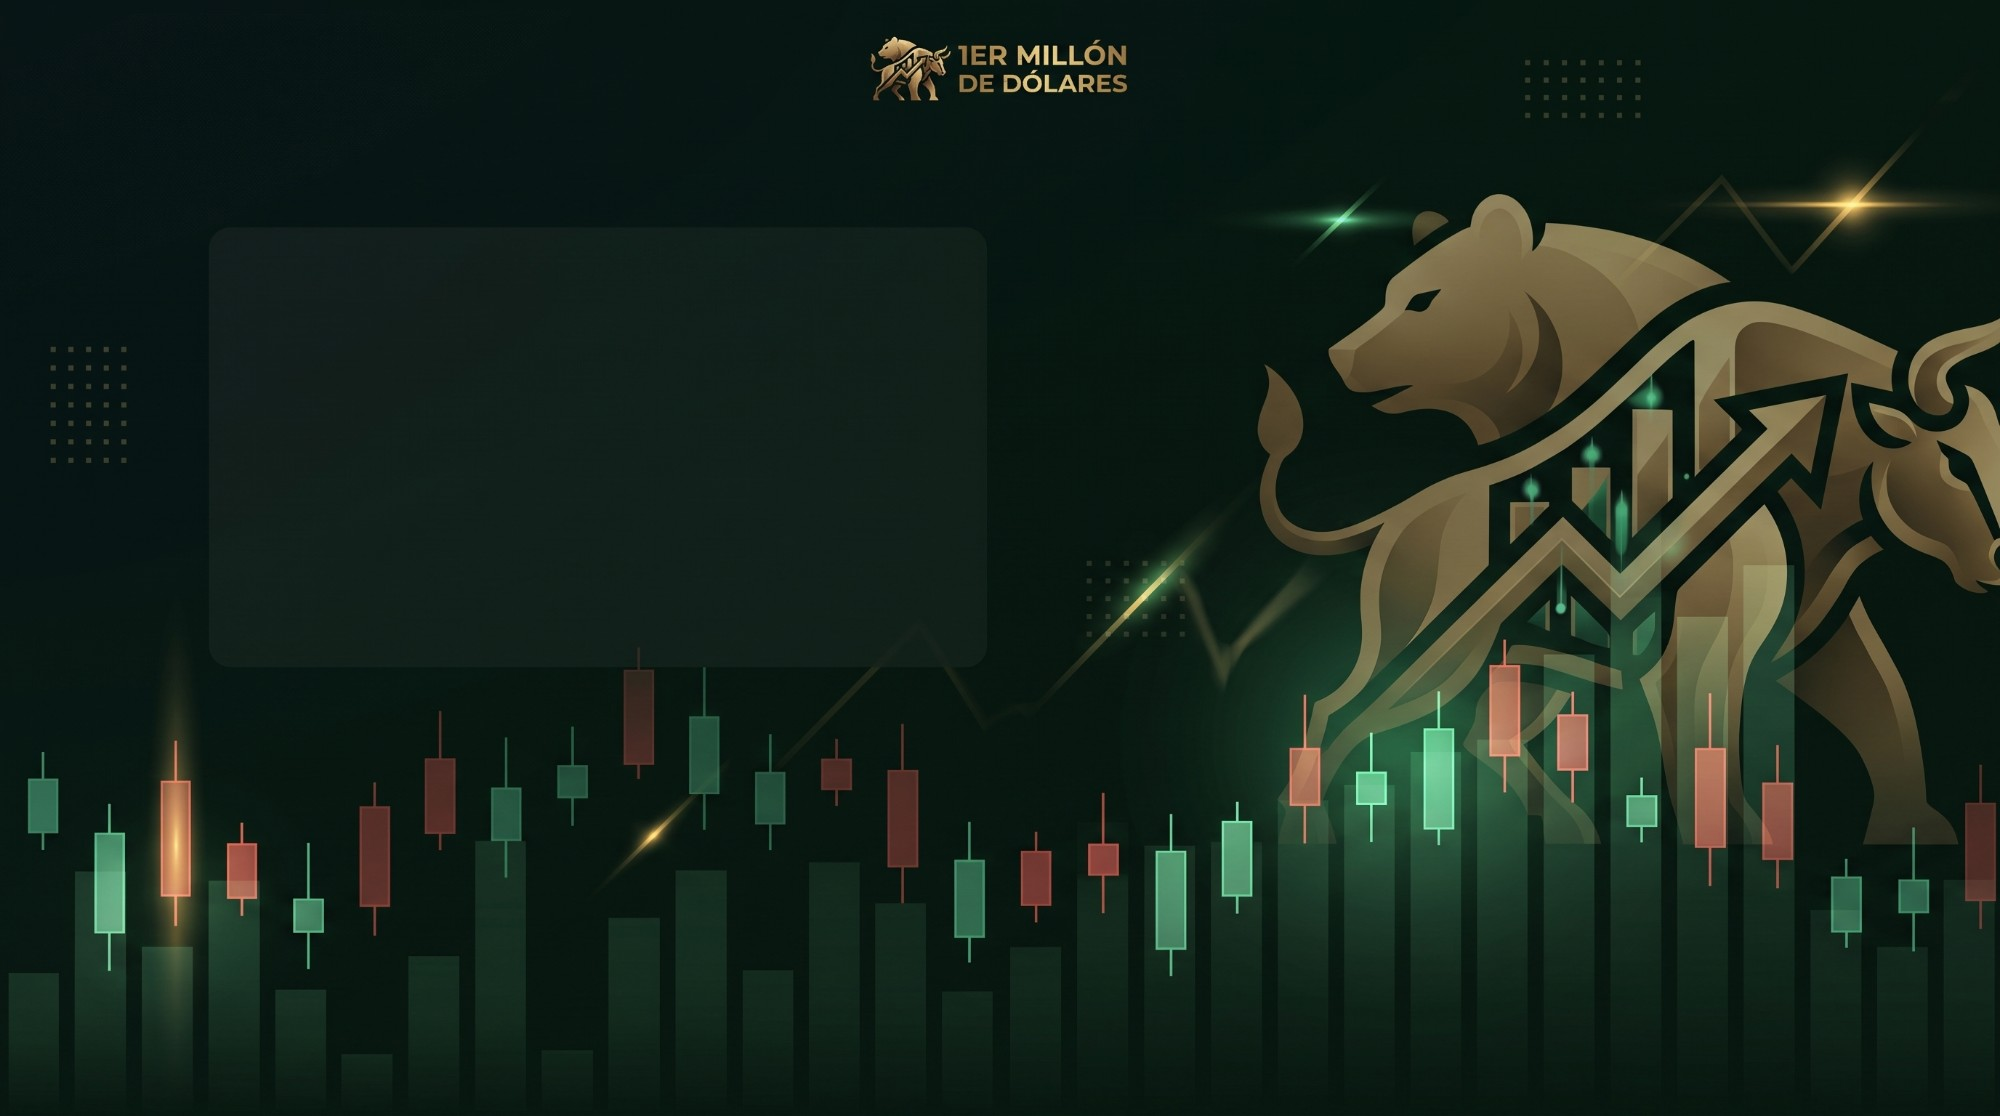
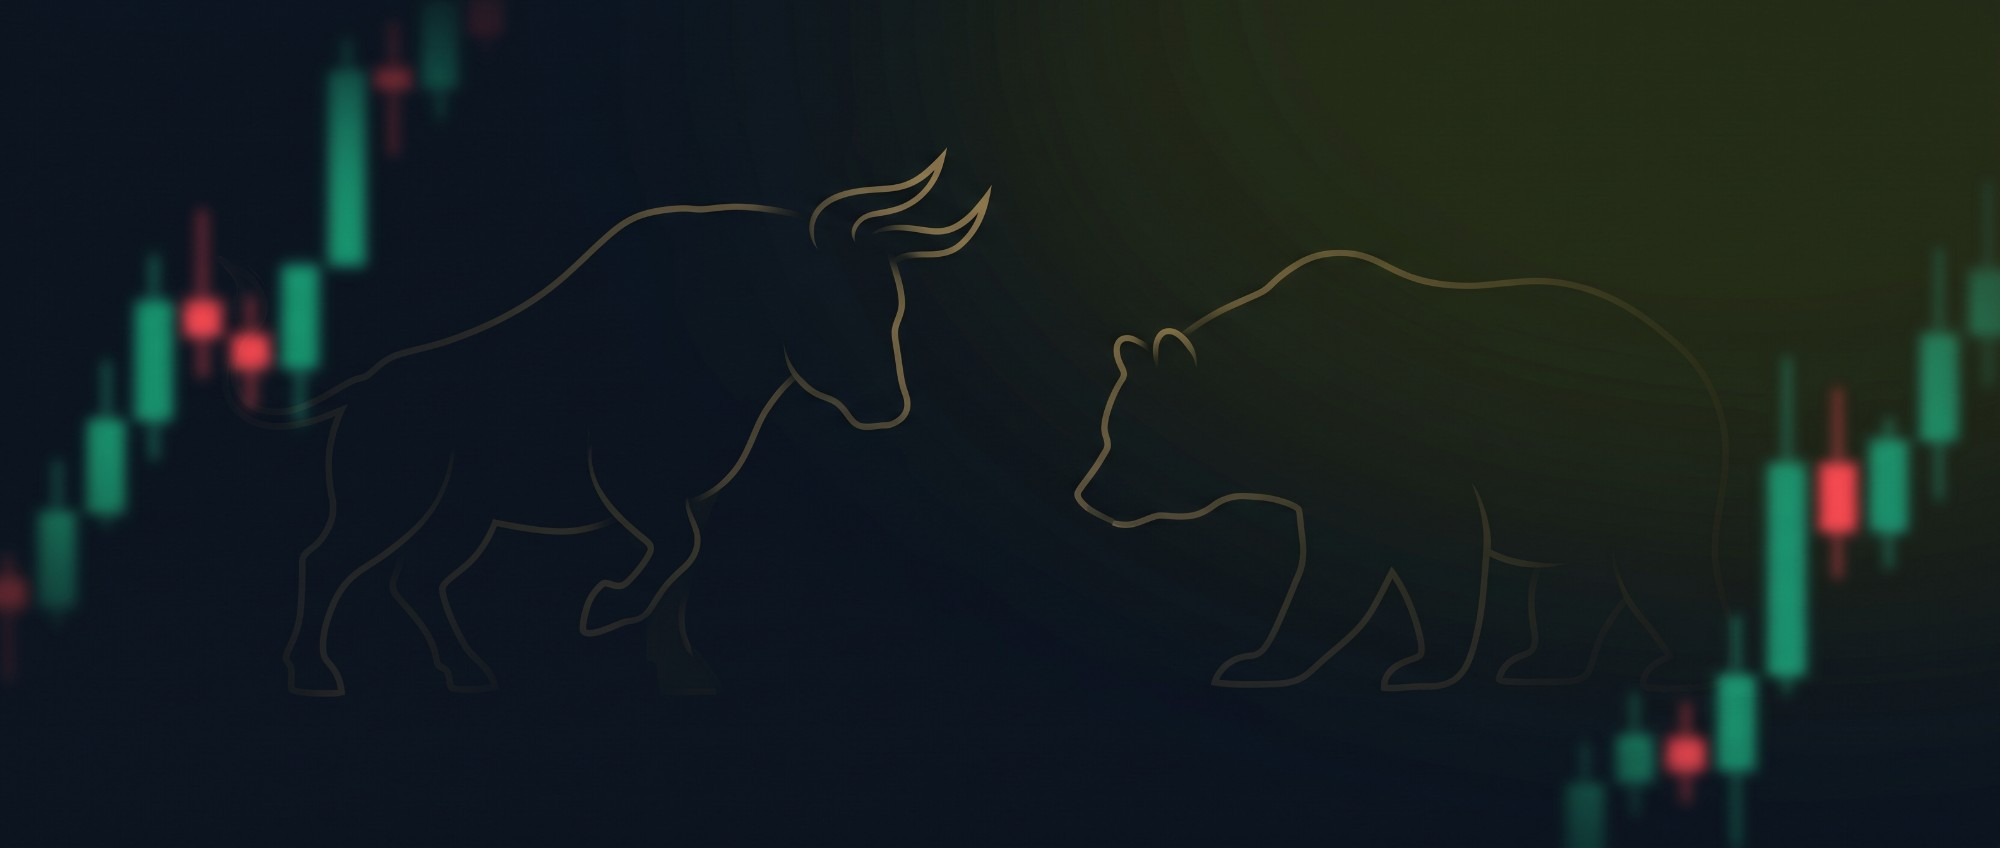
Quitar la costura dura entre secciones + ilustracion nueva de testimonios
Alejo bajando por la pagina: "no hay sinergia entre las imagenes, se ve
como si fueran dos imagenes divididas, me parece horrible". Tenia razon,
y el problema no era de las ilustraciones sino de como estaban montadas:
cada fondo era un rectangulo a sangre pegado al siguiente, asi que donde
terminaba una imagen y empezaba la otra quedaba una linea horizontal
dura. Eso siempre se va a leer como un collage.

Arreglo (.fundido-vertical en globals.css): cada fondo ilustrado se
desvanece hacia el MISMO color (#0b0e14) en sus bordes de arriba y
abajo. Los dos lados de cada costura llegan al mismo tono, asi que el
corte deja de existir y las secciones se encadenan a traves de la
oscuridad en vez de chocar. Aplicado a las tres secciones ilustradas:
hero, seccion del grafico y testimonios.

El color va literal y no var(--bg) a proposito: estas secciones son
oscuras en ambos temas, porque las ilustraciones lo son.

Ademas, ilustracion nueva para testimonios, generada ya con las
especificaciones que se le pasaron a Gemini: sin logo, sin texto,
2000x848, el toro y el oso como siluetas doradas tenues a los lados y
el centro oscuro y limpio para las tarjetas. La anterior era dorada y
recargada y no conversaba con las otras dos.

Como esta nace oscura, el velo encima bajo de 25% a 15% - la anterior
necesitaba el triple. Y el titulo se queda centrado, que ahora cae
justo en el hueco oscuro entre los dos animales.

diff --git a/src/components/TestimonialsMarquee.tsx b/src/components/TestimonialsMarquee.tsx
@@ -28,20 +28,20 @@ import type { Testimonial } from "@/lib/testimonials";
  */
 function TradingBackdrop() {
   return (
-    <div aria-hidden className="pointer-events-none absolute inset-0">
-      <div className="absolute inset-0 bg-[#0b1410]" />
+    <div aria-hidden className="fundido-vertical pointer-events-none absolute inset-0">
+      <div className="absolute inset-0 bg-[#0b0e14]" />
       <Image
         src="/fondo-testimonios.jpg"
         alt=""
         fill
         sizes="100vw"
-        className="object-cover object-bottom"
+        className="object-cover object-center"
       />
-      {/* Vela de oscuridad encima: la ilustración tiene zonas claras
-          (el toro, los destellos) y las tarjetas van justo ahí. Esto
-          baja el contraste del fondo lo suficiente para que el texto de
-          las tarjetas siga siendo lo primero que se lee. */}
-      <div className="absolute inset-0 bg-black/25" />
+      {/* Velo mucho más suave que antes: esta ilustración ya nace
+          oscura y con el centro limpio (se pidió así justamente para
+          que las tarjetas fueran lo primero que se lee). La anterior
+          tenía zonas claras y necesitaba el triple de velo. */}
+      <div className="absolute inset-0 bg-black/15" />
     </div>
   );
 }
@@ -110,10 +110,9 @@ export function TestimonialsMarquee({ items }: { items: Testimonial[] }) {
     <section className="relative overflow-hidden pb-28 pt-16">
       <TradingBackdrop />
       <div className="relative">
-        {/* Centrado y sin la etiqueta de "Testimonios": la ilustración de
-            fondo ya trae el logo arriba al centro, así que el título va
-            debajo y alineado con él — si no, quedaban la marca, la
-            etiqueta y el título como tres cosas apiladas peleándose. */}
+        {/* Centrado: la ilustración tiene el toro a la izquierda y el oso
+            a la derecha, con el centro oscuro y limpio. El título cae
+            justo en ese hueco, entre los dos animales. */}
         <div className="mx-auto mb-8 max-w-5xl px-6 text-center">
           <h2 className="font-display text-2xl font-medium text-white drop-shadow-[0_2px_8px_rgba(0,0,0,0.6)]">
             Lo que dicen nuestros alumnos

diff --git a/src/app/globals.css b/src/app/globals.css
@@ -81,6 +81,29 @@ body {
     linear-gradient(160deg, #0a1420, #101d14 80%);
   overflow: hidden;
 }
+/* Costura entre secciones ilustradas.
+   Alejo lo vio bajando por la página: donde terminaba una imagen y
+   empezaba la siguiente quedaba una línea horizontal dura, y las
+   secciones se leían como dos fotos pegadas en vez de una sola página.
+   Esto desvanece cada fondo ilustrado hacia el MISMO color en sus
+   bordes de arriba y abajo, así ambos lados de cada costura llegan al
+   mismo tono y el corte deja de existir.
+   El color es literal (no var(--bg)) a propósito: estas secciones son
+   oscuras en los dos temas, porque las ilustraciones lo son. */
+.fundido-vertical::after {
+  content: "";
+  position: absolute;
+  inset: 0;
+  pointer-events: none;
+  background: linear-gradient(
+    to bottom,
+    #0b0e14 0%,
+    transparent 16%,
+    transparent 84%,
+    #0b0e14 100%
+  );
+}
+
 /* Carrusel de testimonios (Testimonials Marquee) — dos filas que se
    desplazan solas en direcciones opuestas, como pidió Alejo ("de
    izquierda a derecha o de derecha a izquierda") para que no se apilen

diff --git a/src/app/page.tsx b/src/app/page.tsx
@@ -42,7 +42,7 @@ export default async function Home() {
             entraría de golpe un segundo después — justo la sensación de
             lentitud que queremos evitar. El degradado de `.hero-brand-bg`
             queda debajo como base mientras la imagen llega. */}
-        <div aria-hidden className="pointer-events-none absolute inset-0">
+        <div aria-hidden className="fundido-vertical pointer-events-none absolute inset-0">
           <Image
             src="/fondo-hero.jpg"
             alt=""
@@ -84,7 +84,7 @@ export default async function Home() {
           oso. Carga diferida (sin `priority`) — a esta altura de la
           página el usuario ya tiene que haber bajado. */}
       <div className="relative flex-1 overflow-hidden bg-bg">
-        <div aria-hidden className="pointer-events-none absolute inset-0">
+        <div aria-hidden className="fundido-vertical pointer-events-none absolute inset-0">
           <Image
             src="/fondo-grafico.jpg"
             alt=""
